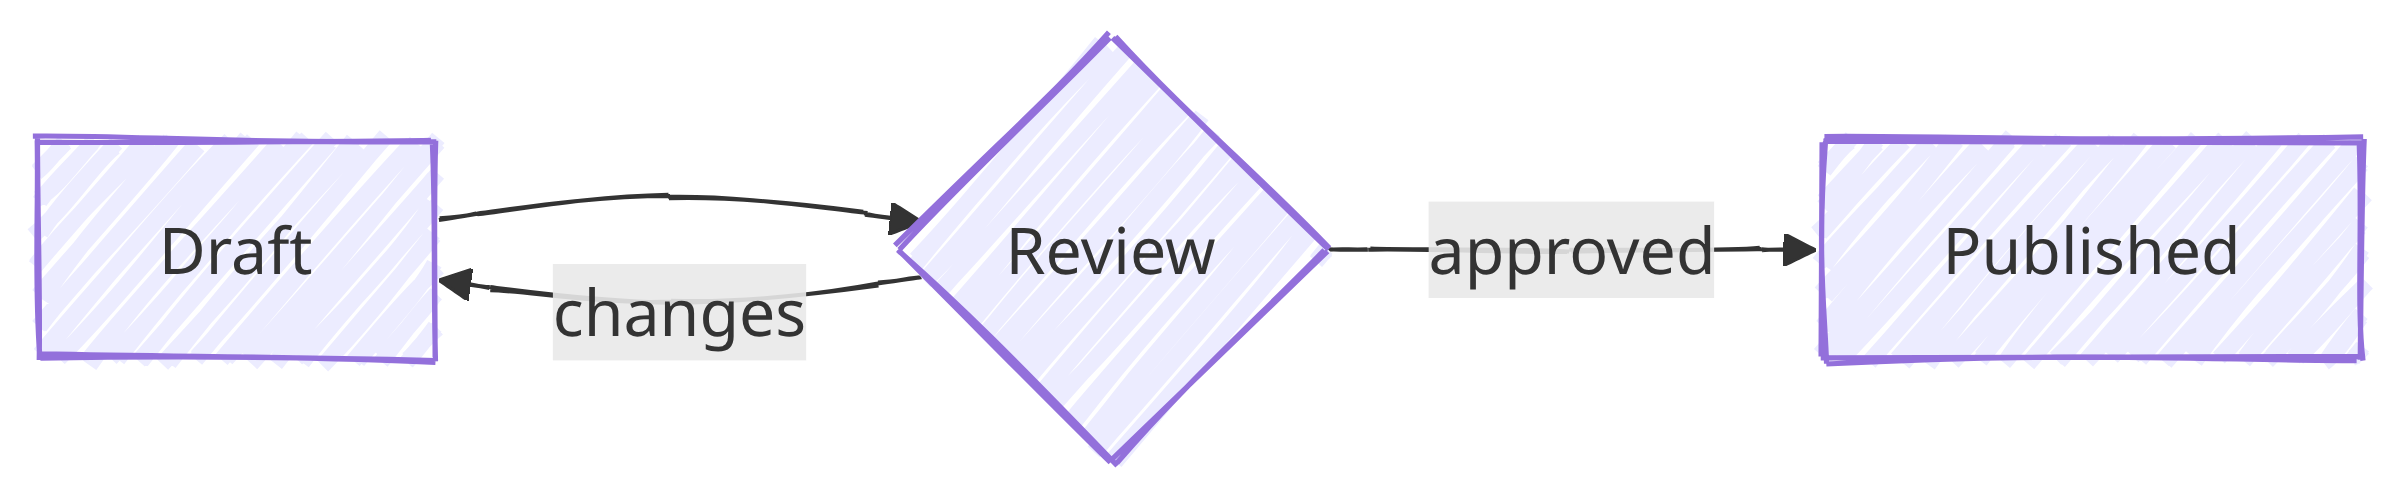
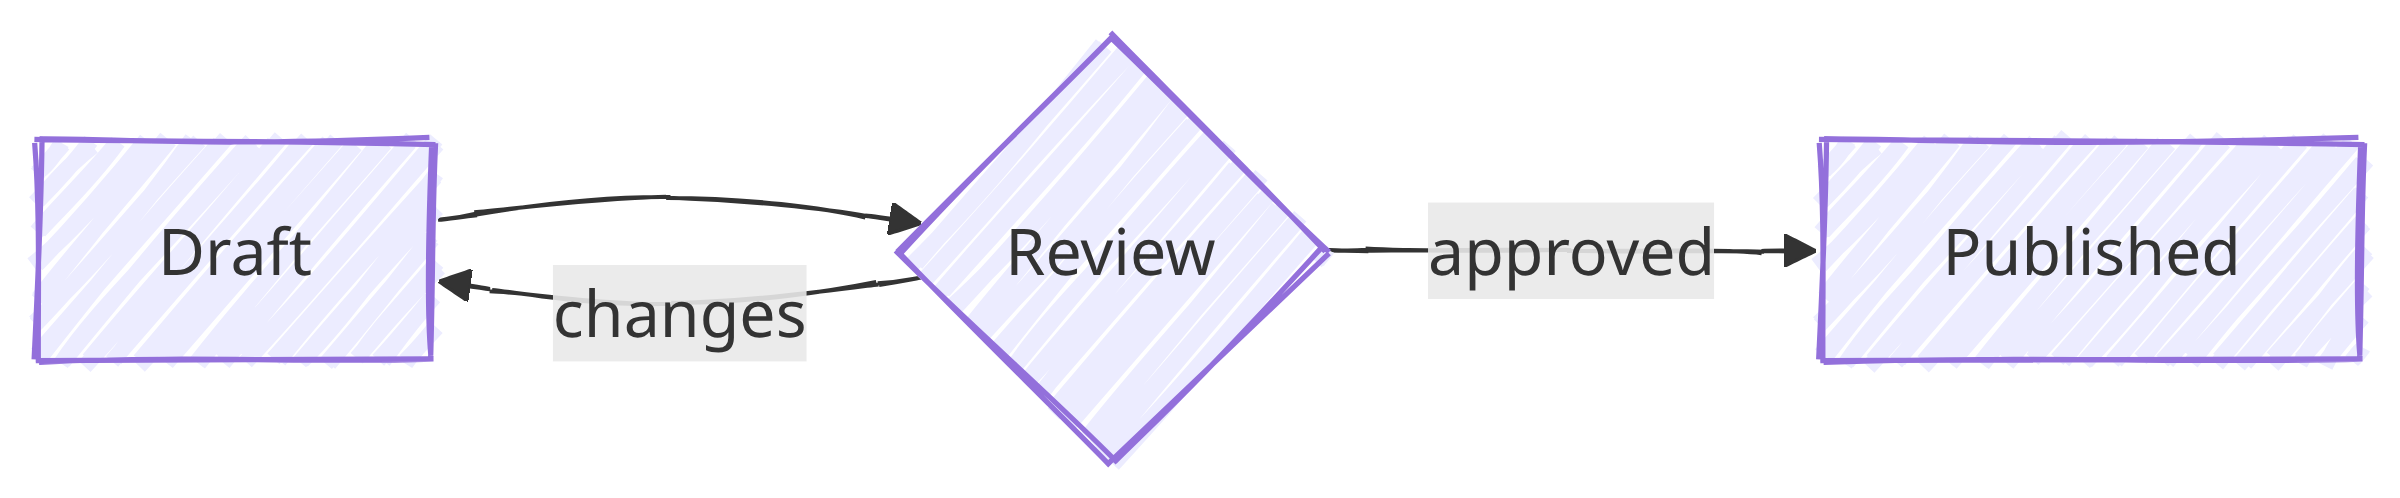
Fix the seed hand-drawn shapes are sketched from
Mermaid seeds `handDrawn` randomly, so a book redrew every shape differently
on each cache miss and no two builds agreed. The value is arbitrary; that it
is fixed is the point.

Classic is untouched — a render at every other look is byte-identical to its
unseeded one.

diff --git a/src/server.js b/src/server.js
@@ -62,6 +62,11 @@ const RASTER_SCALE = 3;
 // does the job — see withIntrinsicSize.
 const NOMINAL_WIDTH = 1600;
 
+// What `handDrawn` sketches its jitter from. Mermaid seeds it randomly, so an
+// unseeded book redraws every shape differently on each cache miss — the value
+// matters less than its being fixed. Which one is arbitrary.
+const HAND_DRAWN_SEED = 57;
+
 // The palette this book is drawn with, from the template's project.conf by way
 // of the compose file. Keystone passes it through without knowing what it is:
 // a renderer's settings are the renderer's, and nothing in the engine or the
@@ -103,6 +108,7 @@ function houseStyle() {
   return {
     theme: PROJECT_THEME,
     look: PROJECT_LOOK,
+    handDrawnSeed: HAND_DRAWN_SEED,
     themeVariables: { fontFamily: PROJECT_FONT },
   };
 }

diff --git a/README.md b/README.md
@@ -101,6 +101,10 @@ not resolve is a warning: a stack is meant to fall through, and the fallback is
 legible. Both arrive as `describe` diagnostics rather than per-diagram errors —
 the project set them, so no one block is at fault.
 
+`handDrawn` sketches each shape from a seed, which this image fixes. Mermaid
+seeds it randomly, and a book that redrew every shape differently on each cache
+miss would not be reproducible.
+
 A diagram is drawn in one palette, in every format and on every screen. There is
 no second palette under `prefers-color-scheme`: that query reports the operating
 system, while the reader's theme is a separate choice. WebKit ignores it for an
